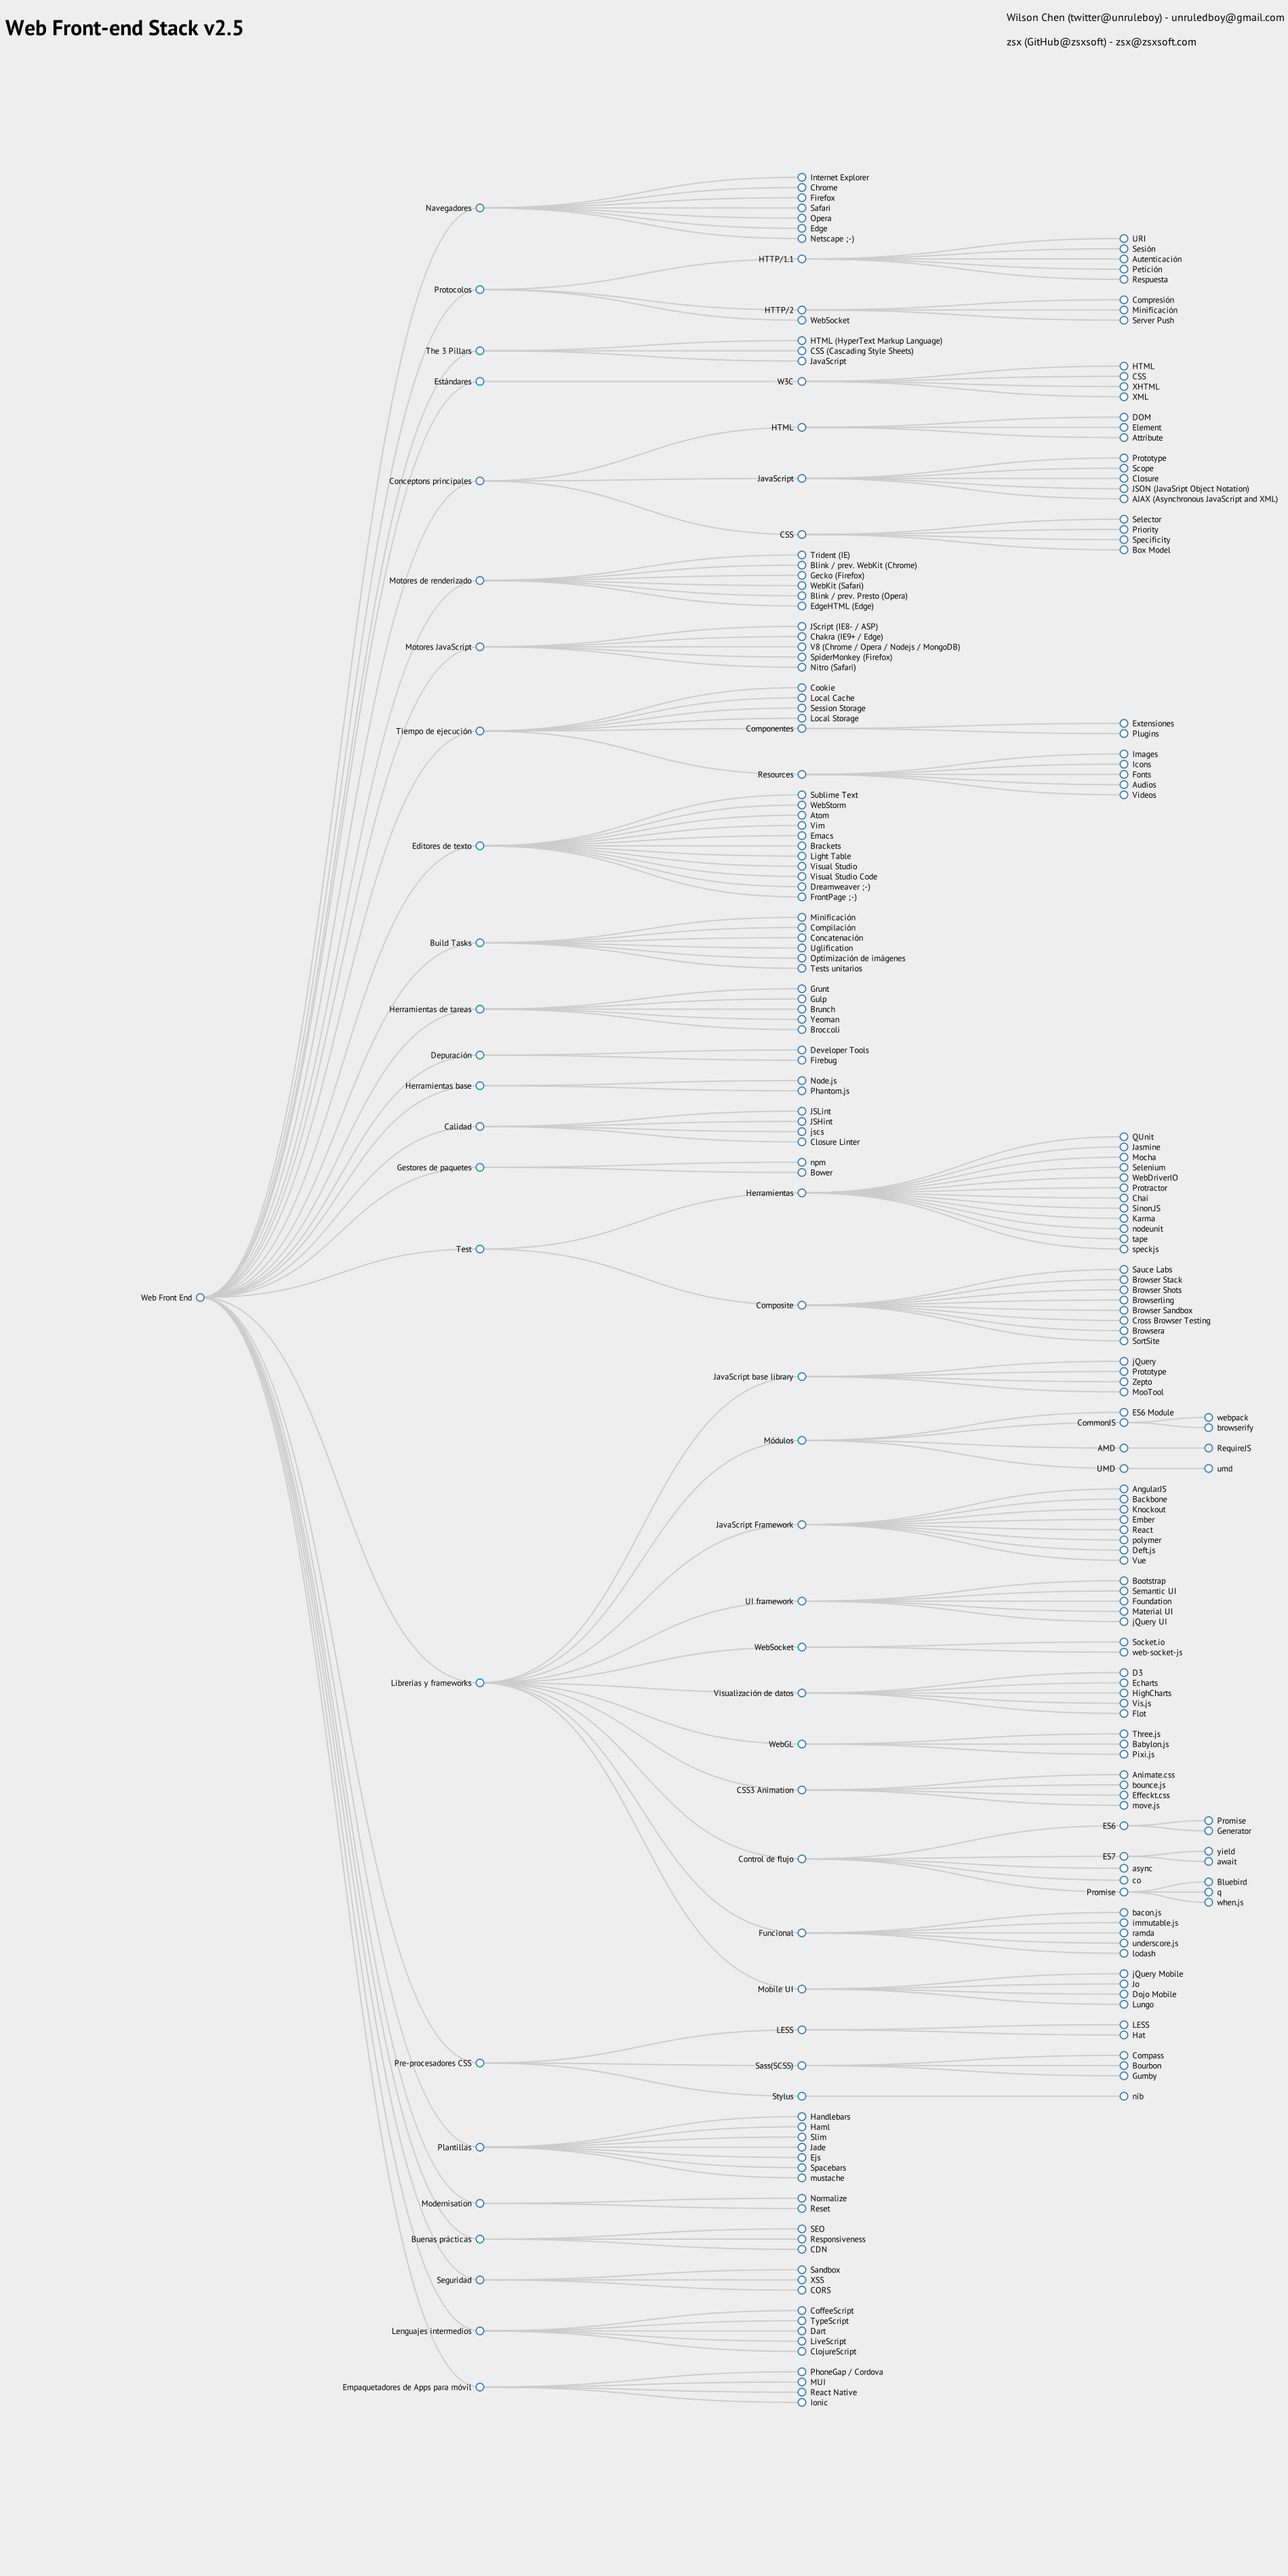
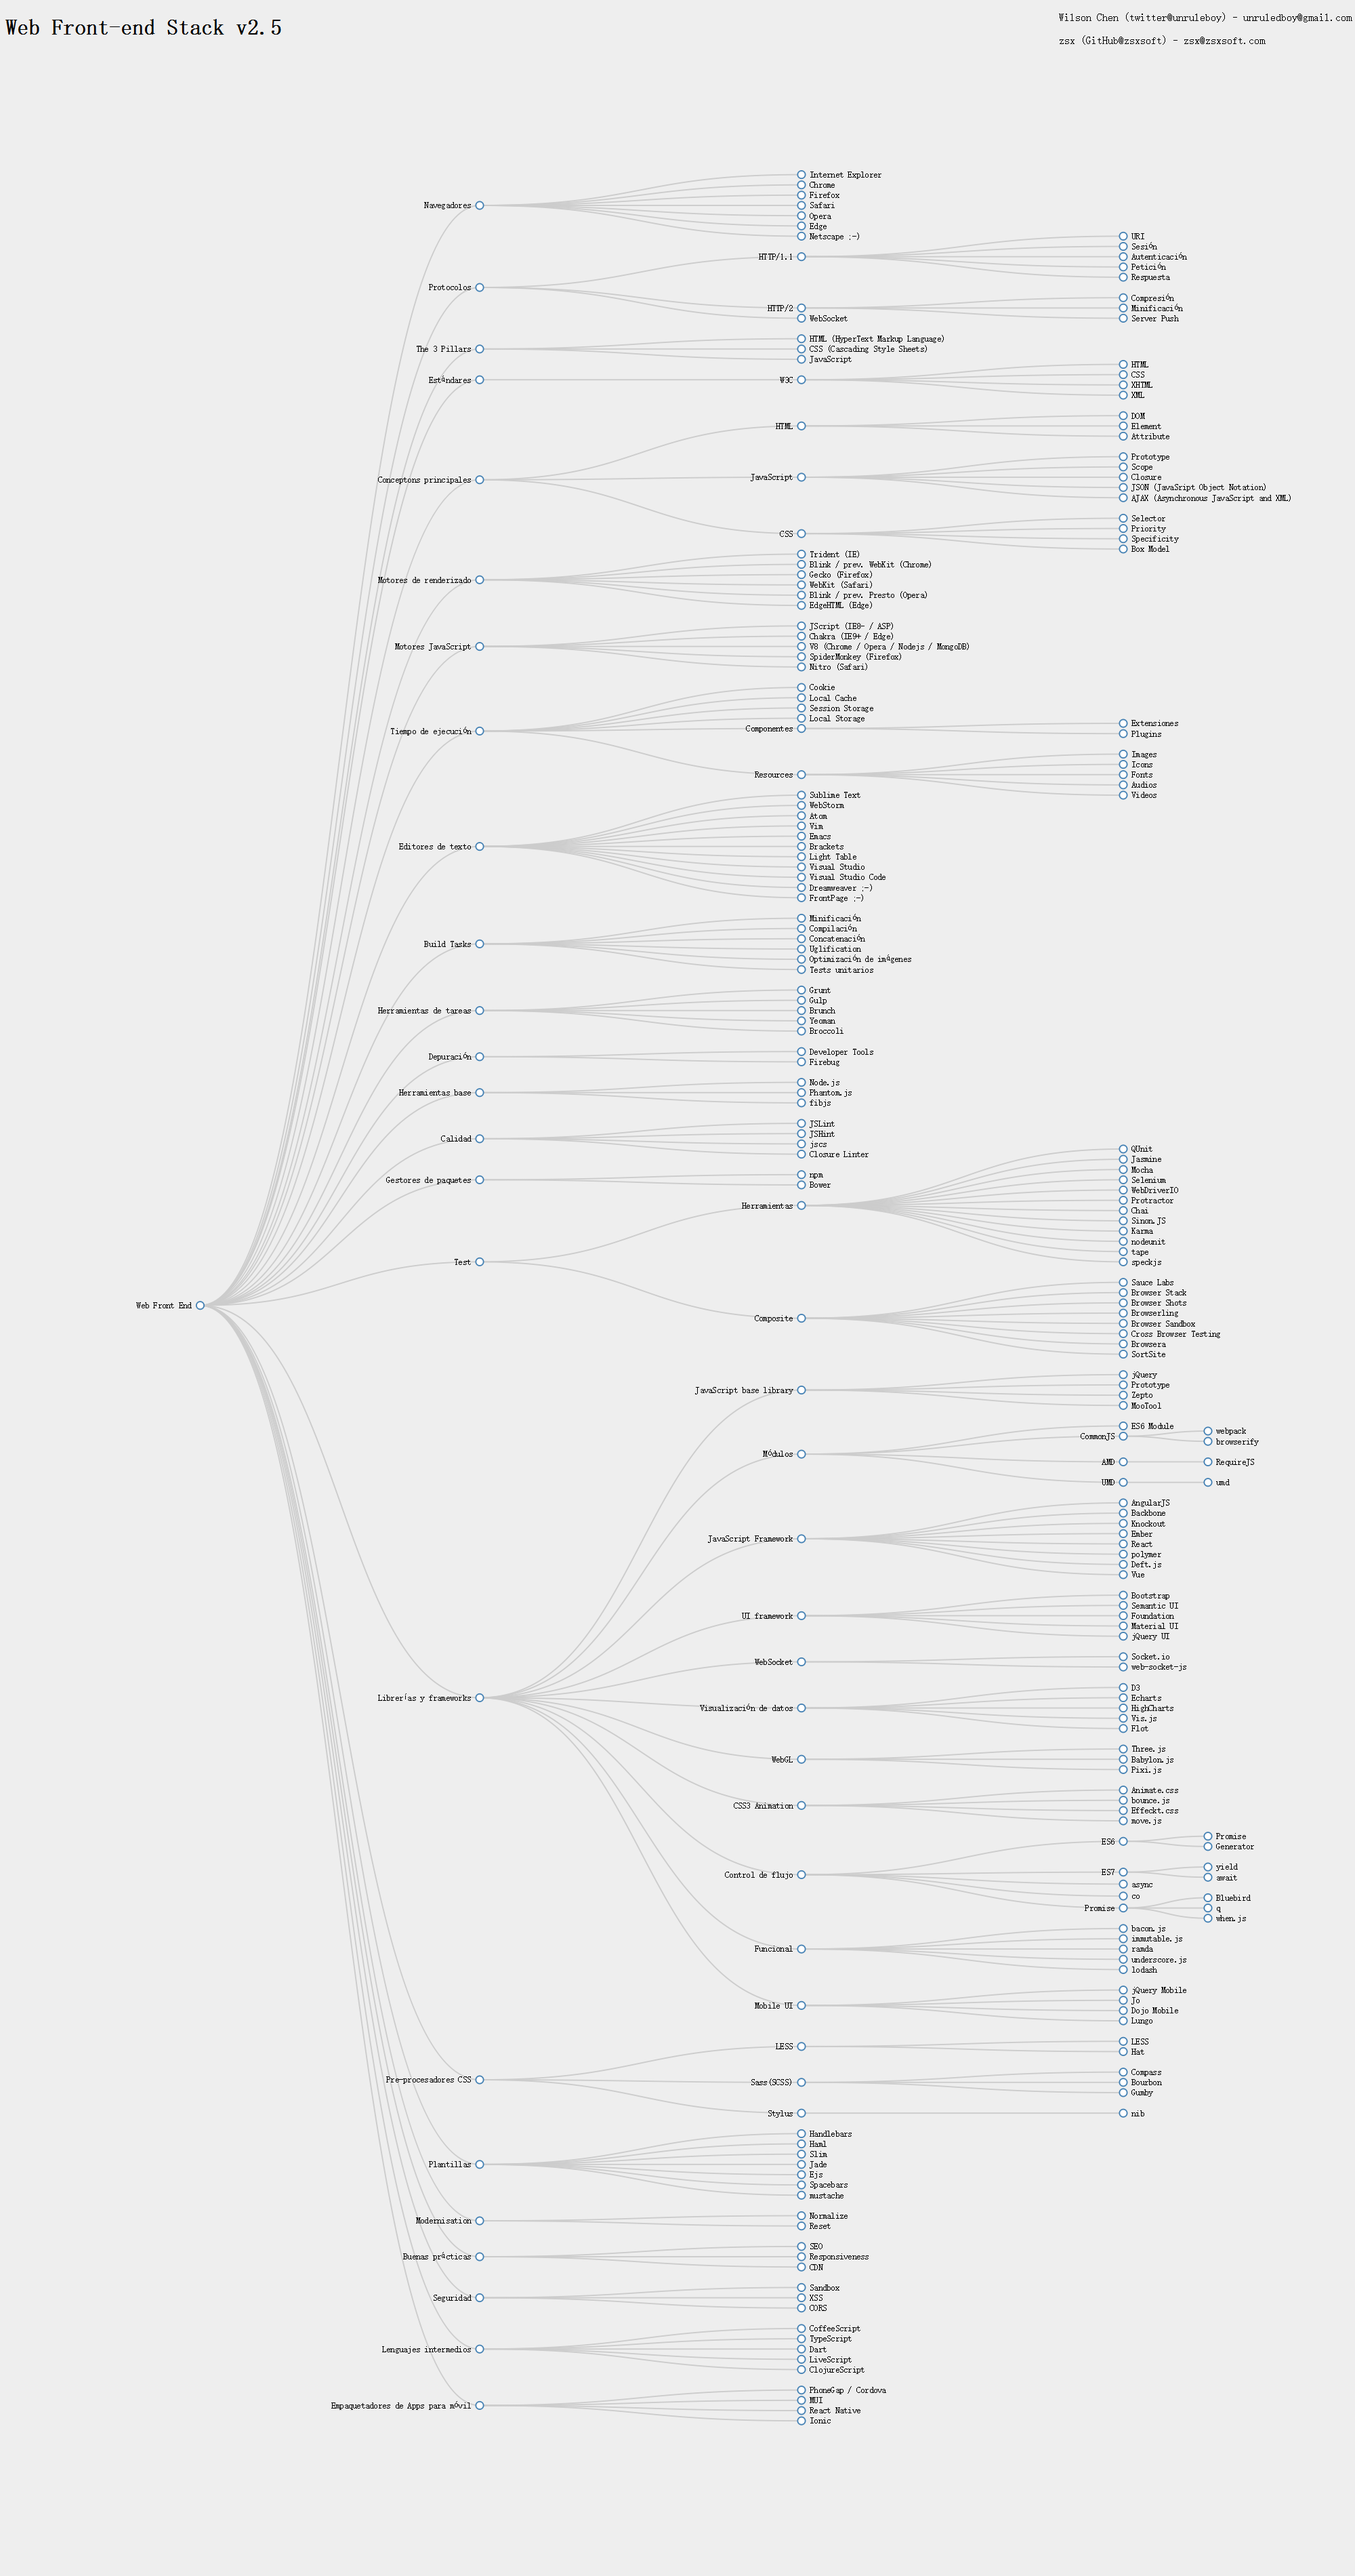
added fibjs

diff --git a/index.js b/index.js
@@ -12,7 +12,7 @@ var fs = Promise.promisifyAll(require('fs'));
 var app = new express();
 var queueReady = ["server"];
 
-var pageWidth = 1900; // Magic number!
+var pageWidth = 2000; // Magic number!
 var pageHeight = 3800;
 
 var config = {

diff --git a/README.zh-cn.md b/README.zh-cn.md
@@ -182,6 +182,7 @@ https://rawgit.com/unruledboy/WebFrontEndStack/master/ux/WebFrontEndStack.htm?lo
 	- 基础工具
 		- [Node.js](https://nodejs.org/) [[GitHub]](https://github.com/joyent/node/)
 		- [Phantom.js](http://phantomjs.org/) [[GitHub]](https://github.com/ariya/phantomjs/)
+		- [fibjs](http://fibjs.org/en/) [[GitHub]](https://github.com/xicilion/fibjs)
 	- 质量控制
 		- [JSLint](http://www.jslint.com/) [[GitHub]](https://github.com/douglascrockford/JSLint/)
 		- [JSHint](http://jshint.com/) [[GitHub]](https://github.com/jshint/jshint/)

diff --git a/README.es-es.md b/README.es-es.md
@@ -181,6 +181,7 @@ https://rawgit.com/unruledboy/WebFrontEndStack/master/ux/WebFrontEndStack.htm
 	- Herramientas base
 		- [Node.js](https://nodejs.org/) [[GitHub]](https://github.com/joyent/node/)
 		- [Phantom.js](http://phantomjs.org/) [[GitHub]](https://github.com/ariya/phantomjs/)
+		- [fibjs](http://fibjs.org/en/) [[GitHub]](https://github.com/xicilion/fibjs)
 	- Calidad
 		- [JSLint](http://www.jslint.com/) [[GitHub]](https://github.com/douglascrockford/JSLint/)
 		- [JSHint](http://jshint.com/) [[GitHub]](https://github.com/jshint/jshint/)

diff --git a/README.md b/README.md
@@ -175,6 +175,7 @@ https://rawgit.com/unruledboy/WebFrontEndStack/master/ux/WebFrontEndStack.htm
 	- Base Tools
 		- [Node.js](https://nodejs.org/) [[GitHub]](https://github.com/joyent/node/)
 		- [Phantom.js](http://phantomjs.org/) [[GitHub]](https://github.com/ariya/phantomjs/)
+		- [fibjs](http://fibjs.org/en/) [[GitHub]](https://github.com/xicilion/fibjs)
 	- Quality
 		- [JSLint](http://www.jslint.com/) [[GitHub]](https://github.com/douglascrockford/JSLint/)
 		- [JSHint](http://jshint.com/) [[GitHub]](https://github.com/jshint/jshint/)
